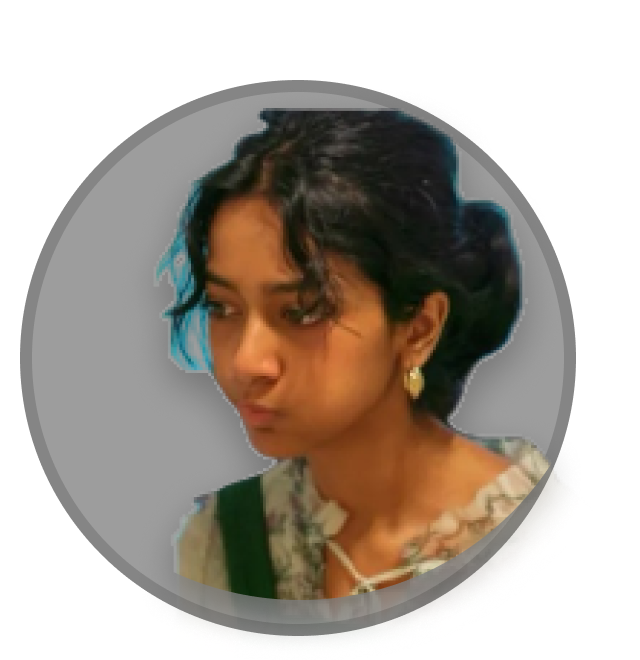
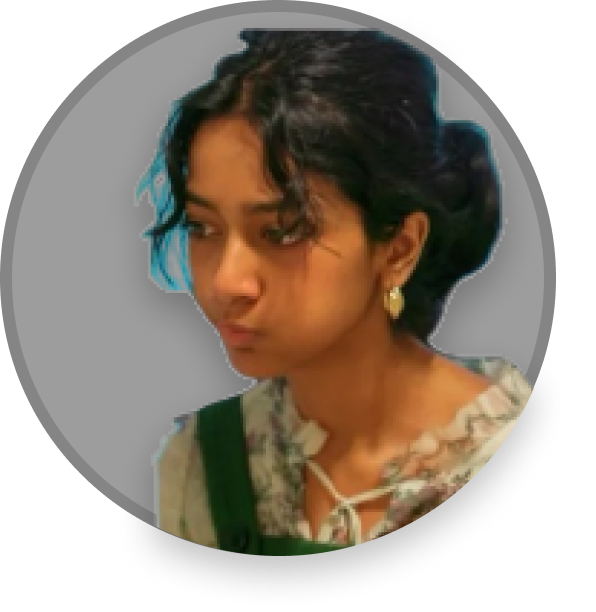
fix: rotation, orientation

diff --git a/src/app/page.tsx b/src/app/page.tsx
@@ -1,55 +1,33 @@
+"use client";
+
 import Image from 'next/image';
 import styles from './page.module.css';
+import { useState } from 'react';
 
 export default function Home() {
+  const [rotationAngle, setRotationAngle] = useState(0);
+
+  const handleProfileClick = (index: number) => {
+    const anglePerProfile = 360 / 5; // Assuming 5 profiles
+    const newAngle = -(index - 1) * anglePerProfile;
+    setRotationAngle(newAngle);
+  };
+
   return (
     <div className={styles.container}>
-      <div className={styles.profileCluster}>
-        <div className={`${styles.profileWrapper} ${styles.profile1}`}>
-          <Image
-            src="/pranav-pfp-new-notify.png"
-            alt="Profile picture"
-            width={100}
-            height={100}
-            className={styles.profilePic}
-          />
-        </div>
-        <div className={`${styles.profileWrapper} ${styles.profile2}`}>
-          <Image
-            src="/praneeth-pfp-notify.png"
-            alt="Profile picture"
-            width={80}
-            height={80}
-            className={styles.profilePic}
-          />
-        </div>
-        <div className={`${styles.profileWrapper} ${styles.profile3}`}>
-          <Image
-            src="/reshmi-pfp-notify.png"
-            alt="Profile picture"
-            width={90}
-            height={90}
-            className={styles.profilePic}
-          />
-        </div>
-        <div className={`${styles.profileWrapper} ${styles.profile4}`}>
-          <Image
-            src="/other-pranav-pfp-notify.png"
-            alt="Profile picture"
-            width={70}
-            height={70}
-            className={styles.profilePic}
-          />
-        </div>
-        <div className={`${styles.profileWrapper} ${styles.profile5}`}>
-          <Image
-            src="/default-pic-notify.png"
-            alt="Profile picture"
-            width={60}
-            height={60}
-            className={styles.profilePic}
-          />
-        </div>
+      <div className={styles.profileCluster} style={{ transform: `rotate(${rotationAngle}deg)`, transition: 'transform 0.5s ease' }}>
+        {['pranav-pfp-new-notify.png', 'praneeth-pfp-notify.png', 'reshmi-pfp-notify-new.png', 'other-pranav-pfp-notify.png', 'default-pic-notify.png'].map((src, index) => (
+          <div key={index} className={`${styles.profileWrapper} ${styles[`profile${index + 1}`]}`} onClick={() => handleProfileClick(index)}>
+            <Image
+              src={`/${src}`}
+              alt="Profile picture"
+              width={100 - index * 10}
+              height={100 - index * 10}
+              className={styles.profilePic}
+              style={{ transform: `rotate(${-rotationAngle}deg)`, transition: 'transform 0.5s ease' }}
+            />
+          </div>
+        ))}
       </div>
       <div className={styles.inputWrapper}>
         <input 

diff --git a/src/app/page.module.css b/src/app/page.module.css
@@ -18,6 +18,9 @@
   position: absolute;
   border-radius: 50%;
   overflow: hidden;
+  transition: transform 0.3s ease, border 0.3s ease;
+  border: 2px solid transparent;
+  transform-origin: center center;
 }
 
 .profilePic {
@@ -25,6 +28,12 @@
   width: 100%;
   height: 100%;
   border-radius: 50%;
+  transform: rotate(calc(-1 * var(--rotation-angle)));
+}
+
+.profileWrapper:hover {
+  transform: scale(1.1) translate(-50%, -50%);
+  border: 4px solid #CBCCCD;
 }
 
 /* Circular layout */
@@ -77,6 +86,12 @@
   top: calc(var(--center-y) + var(--radius) * sin(288deg));
   transform: translate(-50%, -50%);
   z-index: 1;
+}
+
+.profile6 {
+  left: calc(var(--center-x) + var(--radius) * cos(360deg));
+  top: calc(var(--center-y) + var(--radius) * sin(360deg));
+  transform: translate(-50%, -50%);
 }
 
 .inputWrapper {
